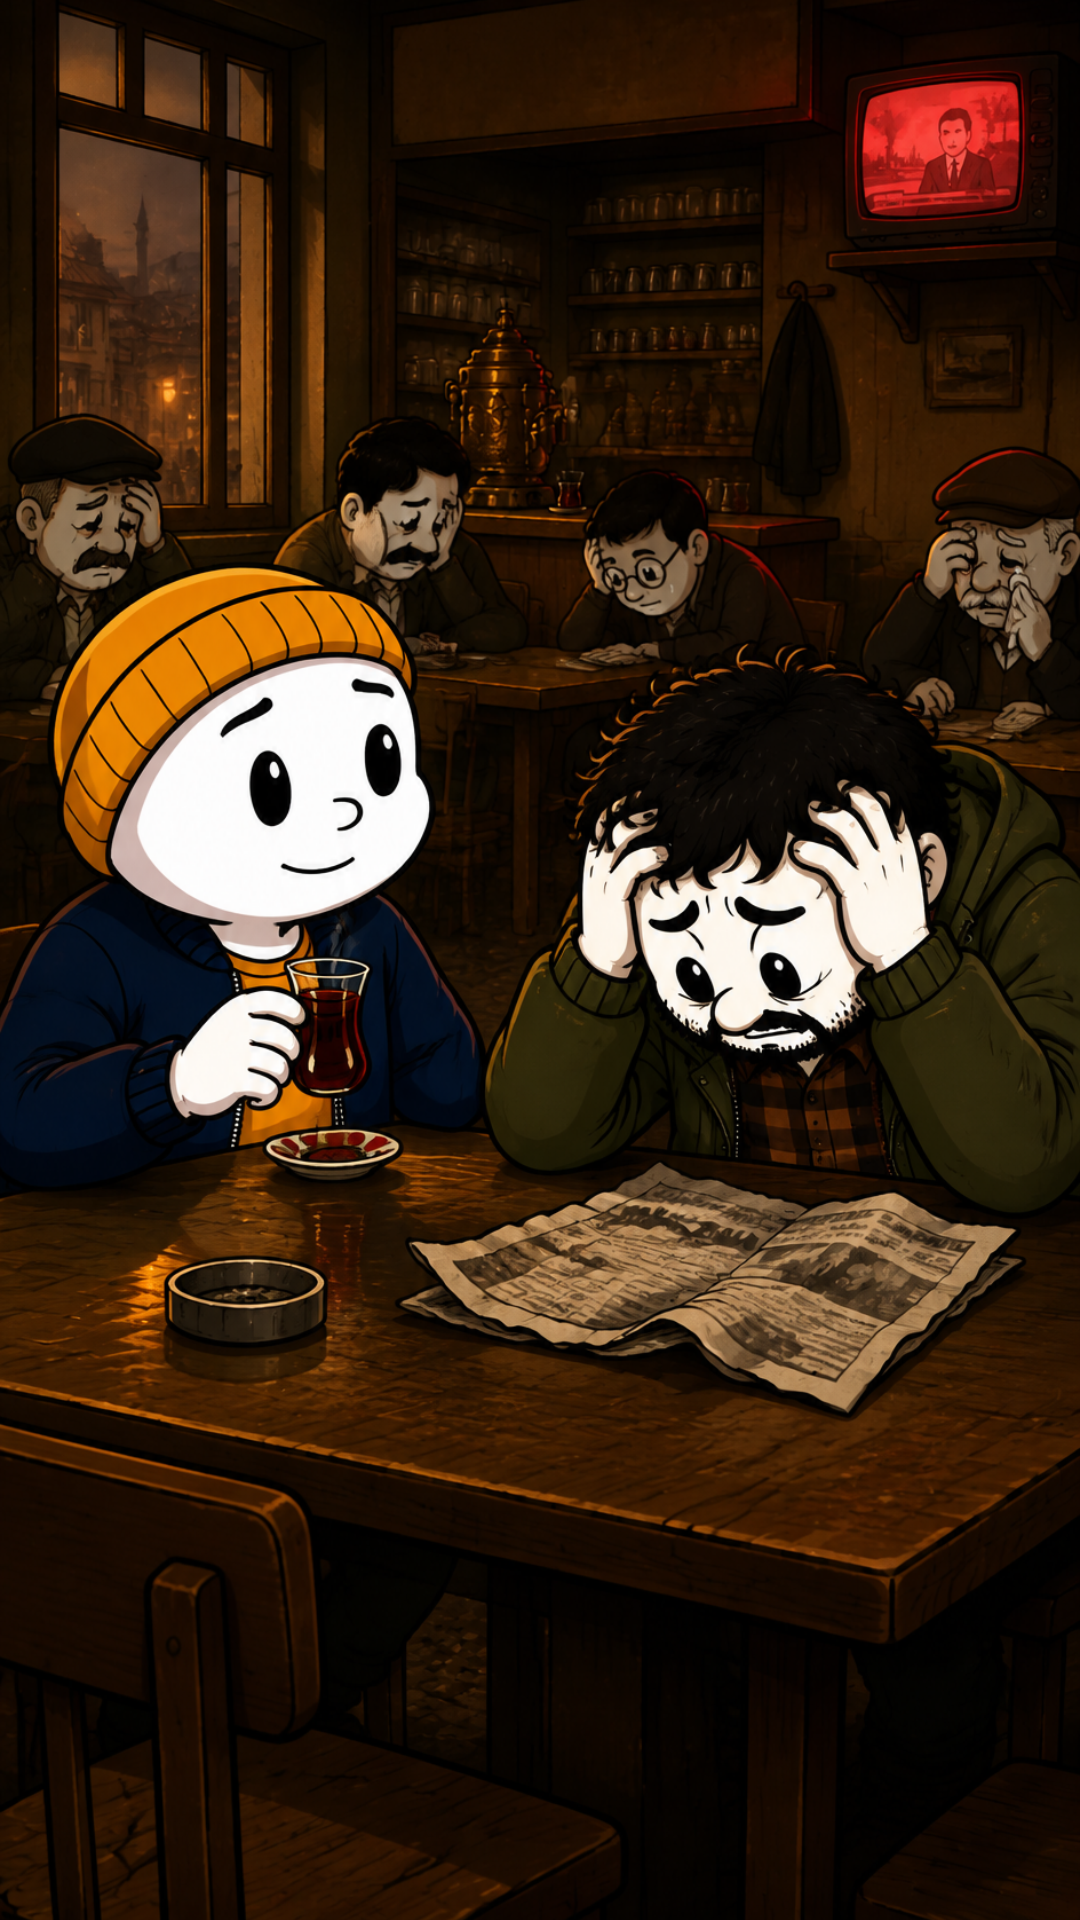
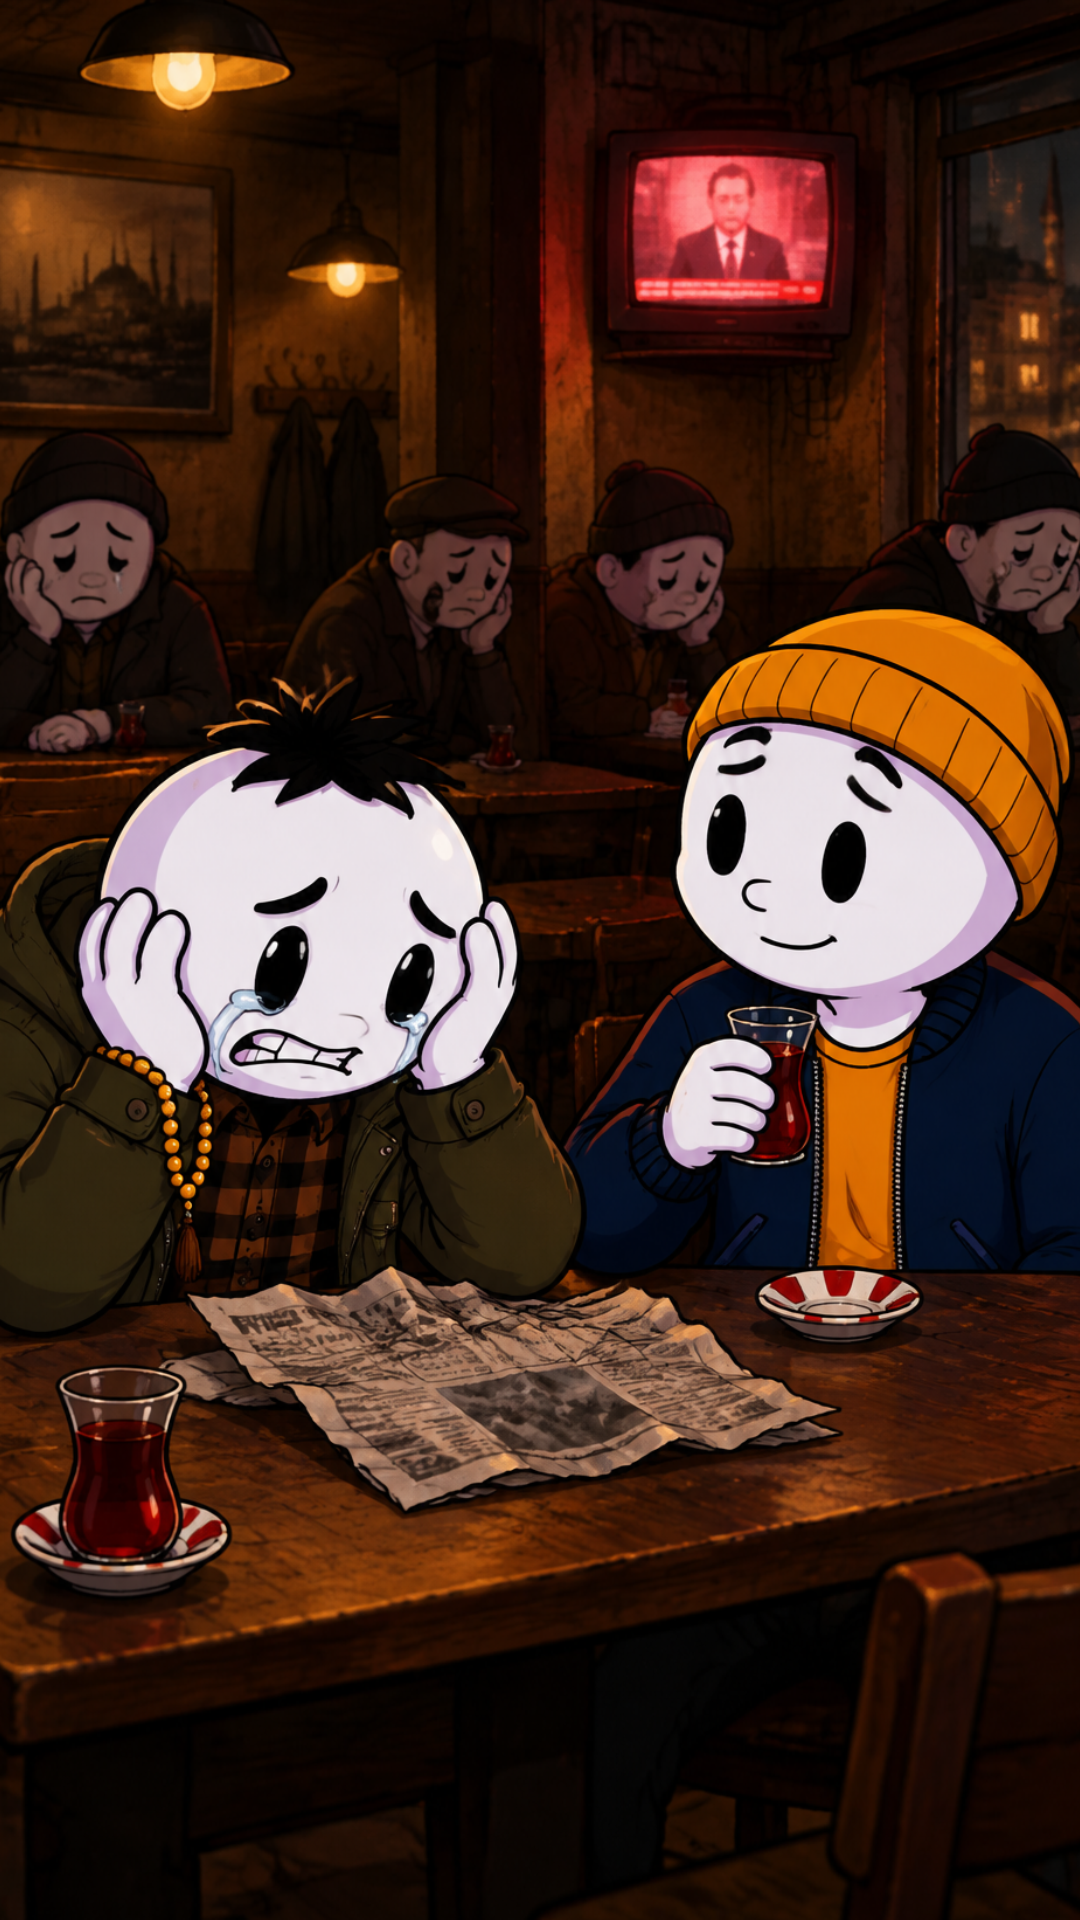
Bölüm 8: tüm karakterler aynı tür (burunsuz), yeni Cemil; format kuralı
Claude-Session: https://claude.ai/code/session_014JxJGDekTQeiZJynemFY6T

diff --git a/docs/FORMAT.md b/docs/FORMAT.md
@@ -8,6 +8,8 @@ Bu dosya STIL.md'deki eski kuralların üstündedir; çakışırsa bu geçerlidi
 - Her bölümde tekrar eden slogan: Selim "**Ben biliyorum.**" — Cemil "**Yapma Selim!**"
 - Necmi ve borç arka planda sürebilir; bölümü anlamak için gerekli olmaz.
 - Selim, Cemil, Necmi için sabit karakter görselleri her üretimde referans verilir.
+- **Herkes aynı tür:** Selim, Cemil, figüranlar dahil herkesin kafası beyaz yuvarlak top; burun YOK, kulak YOK, sakal/ten rengi YOK. Kadın-erkek saç, başörtüsü ve kıyafetle ayrılır.
+- Canva referansları: Selim `MAHZ8wxM2RM`, Cemil `MAHaaZmO6v8` (siyah saç perçemi, ekose gömlek, haki parka, tespih). Mekân referansı (eski kahvehane vb.) insan yüzlü figüran içeriyorsa kullanılmaz; istemde "SPECIES RULE" cümlesi şart.
 
 ## Her bölümün kalıbı
 1. **0–3 sn sabit açılış (başlık kartı YOK):** "Ben Selim. 2026'dan 1999'a düştüm. Ne olacağını biliyorum. Kasa: X dolar."
